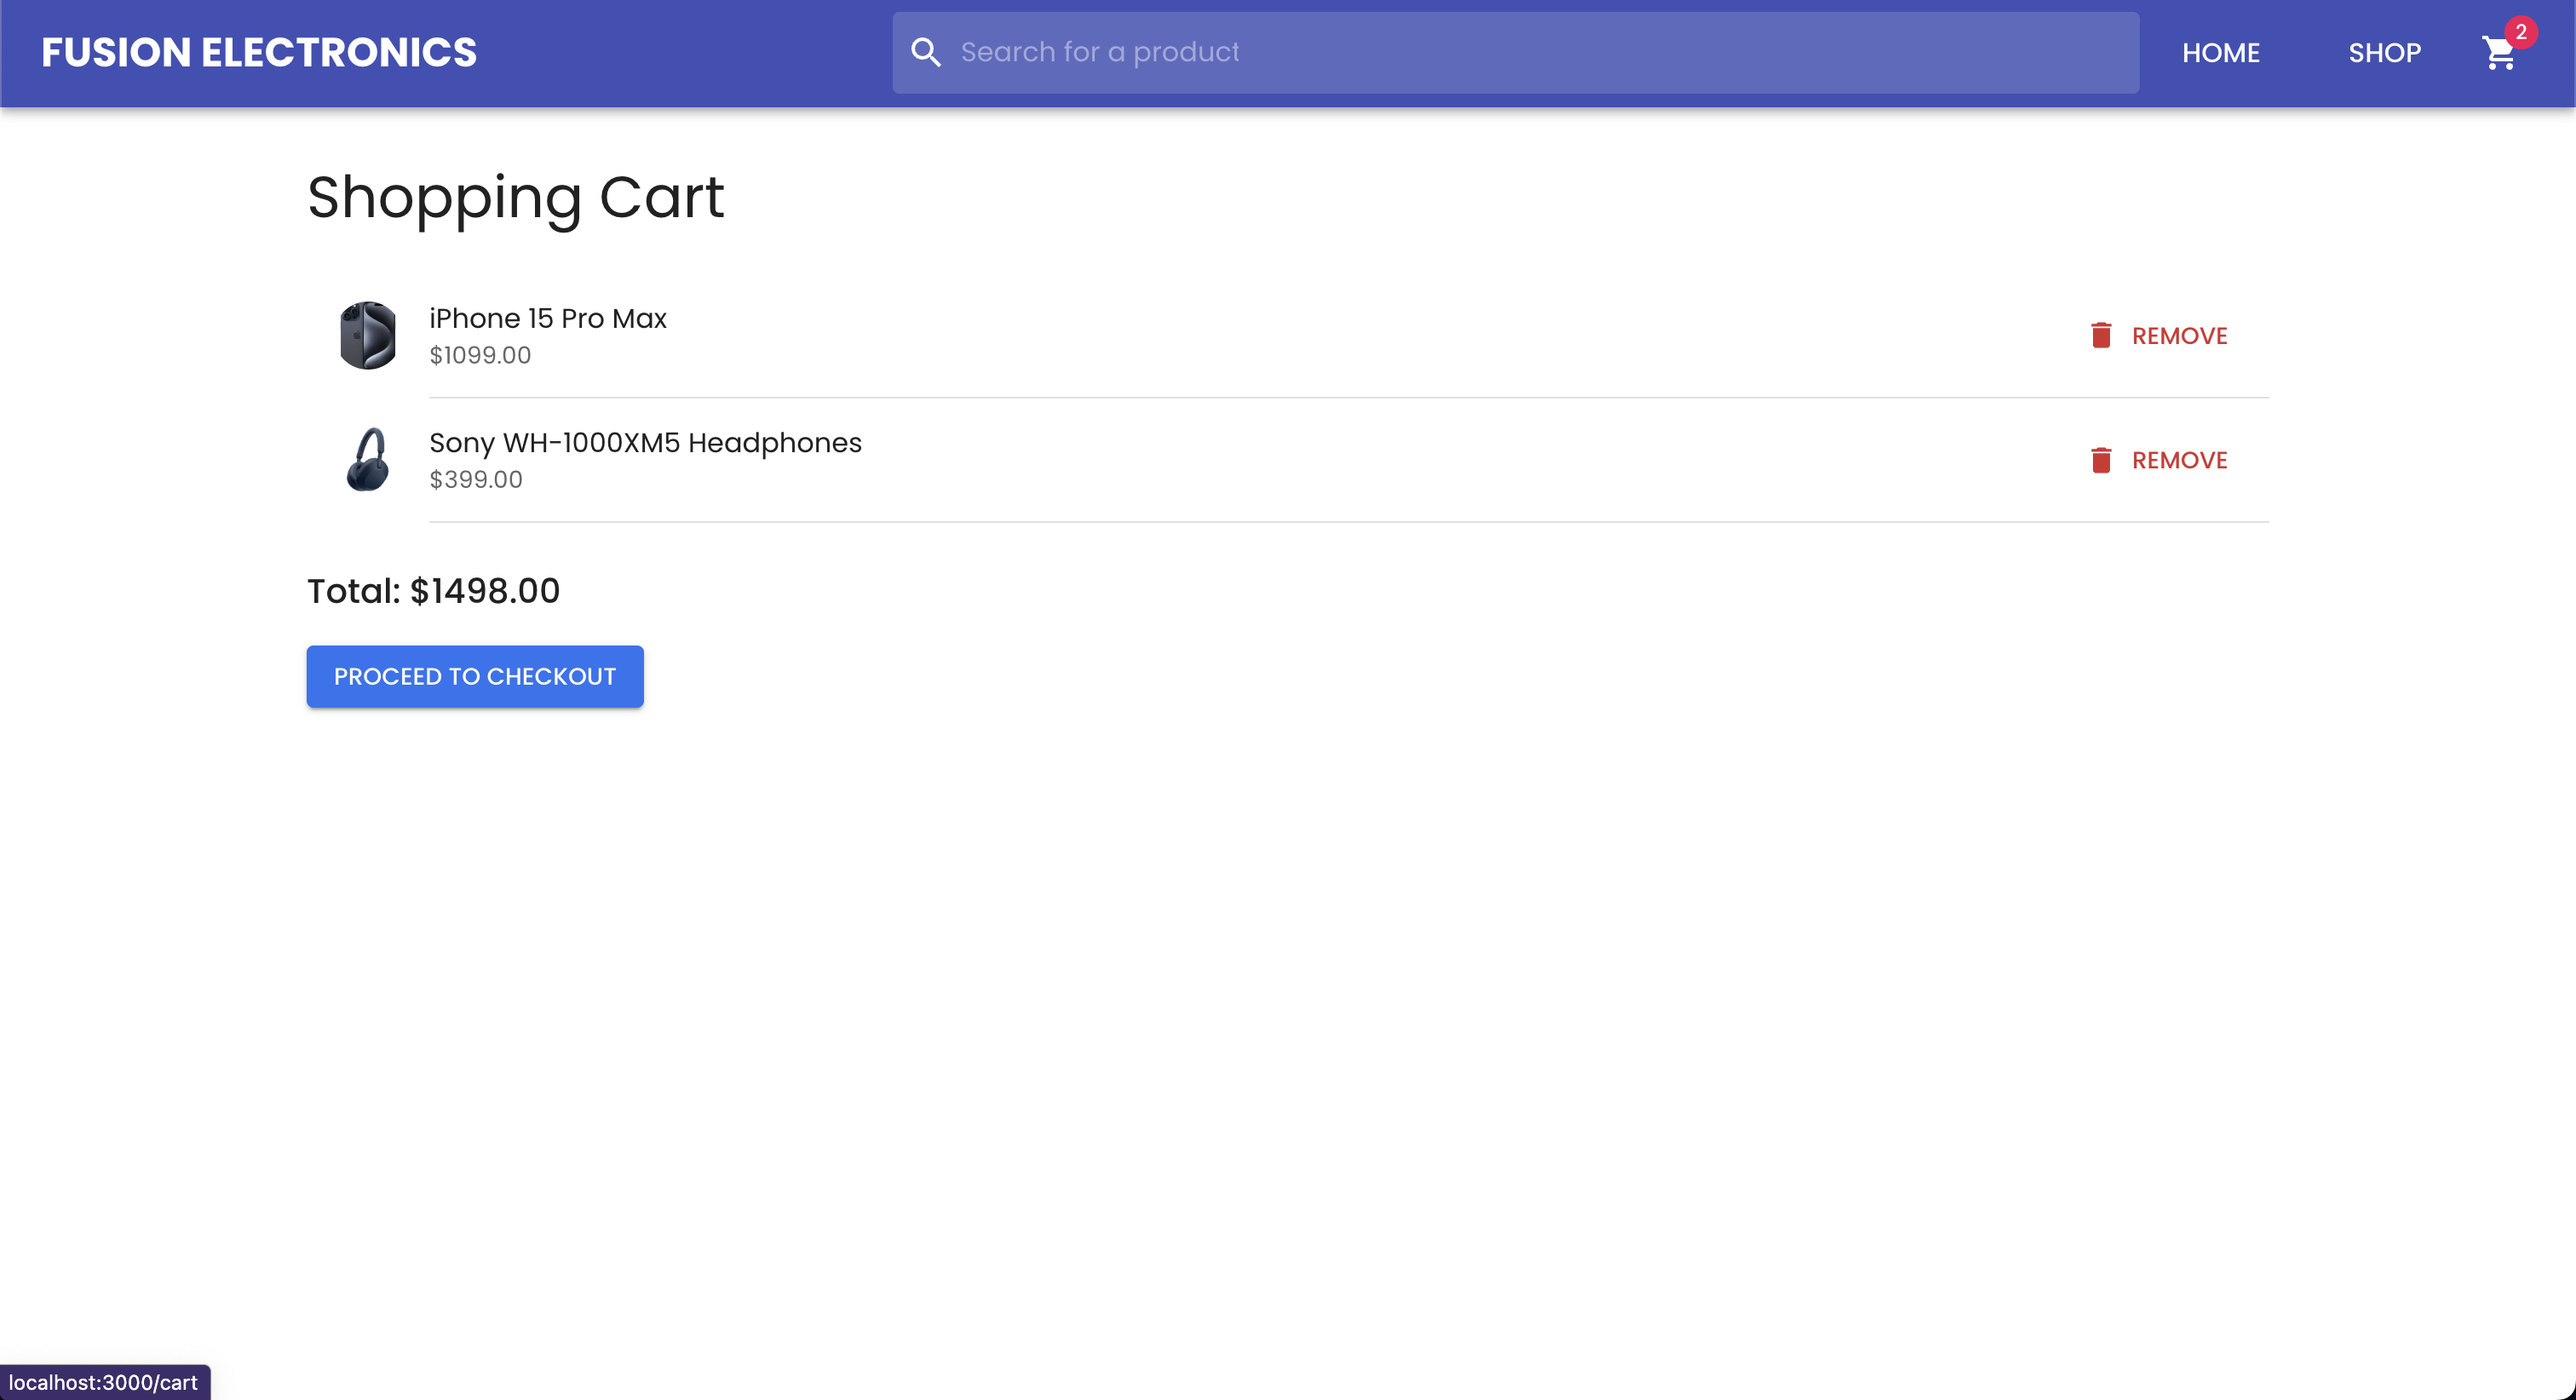
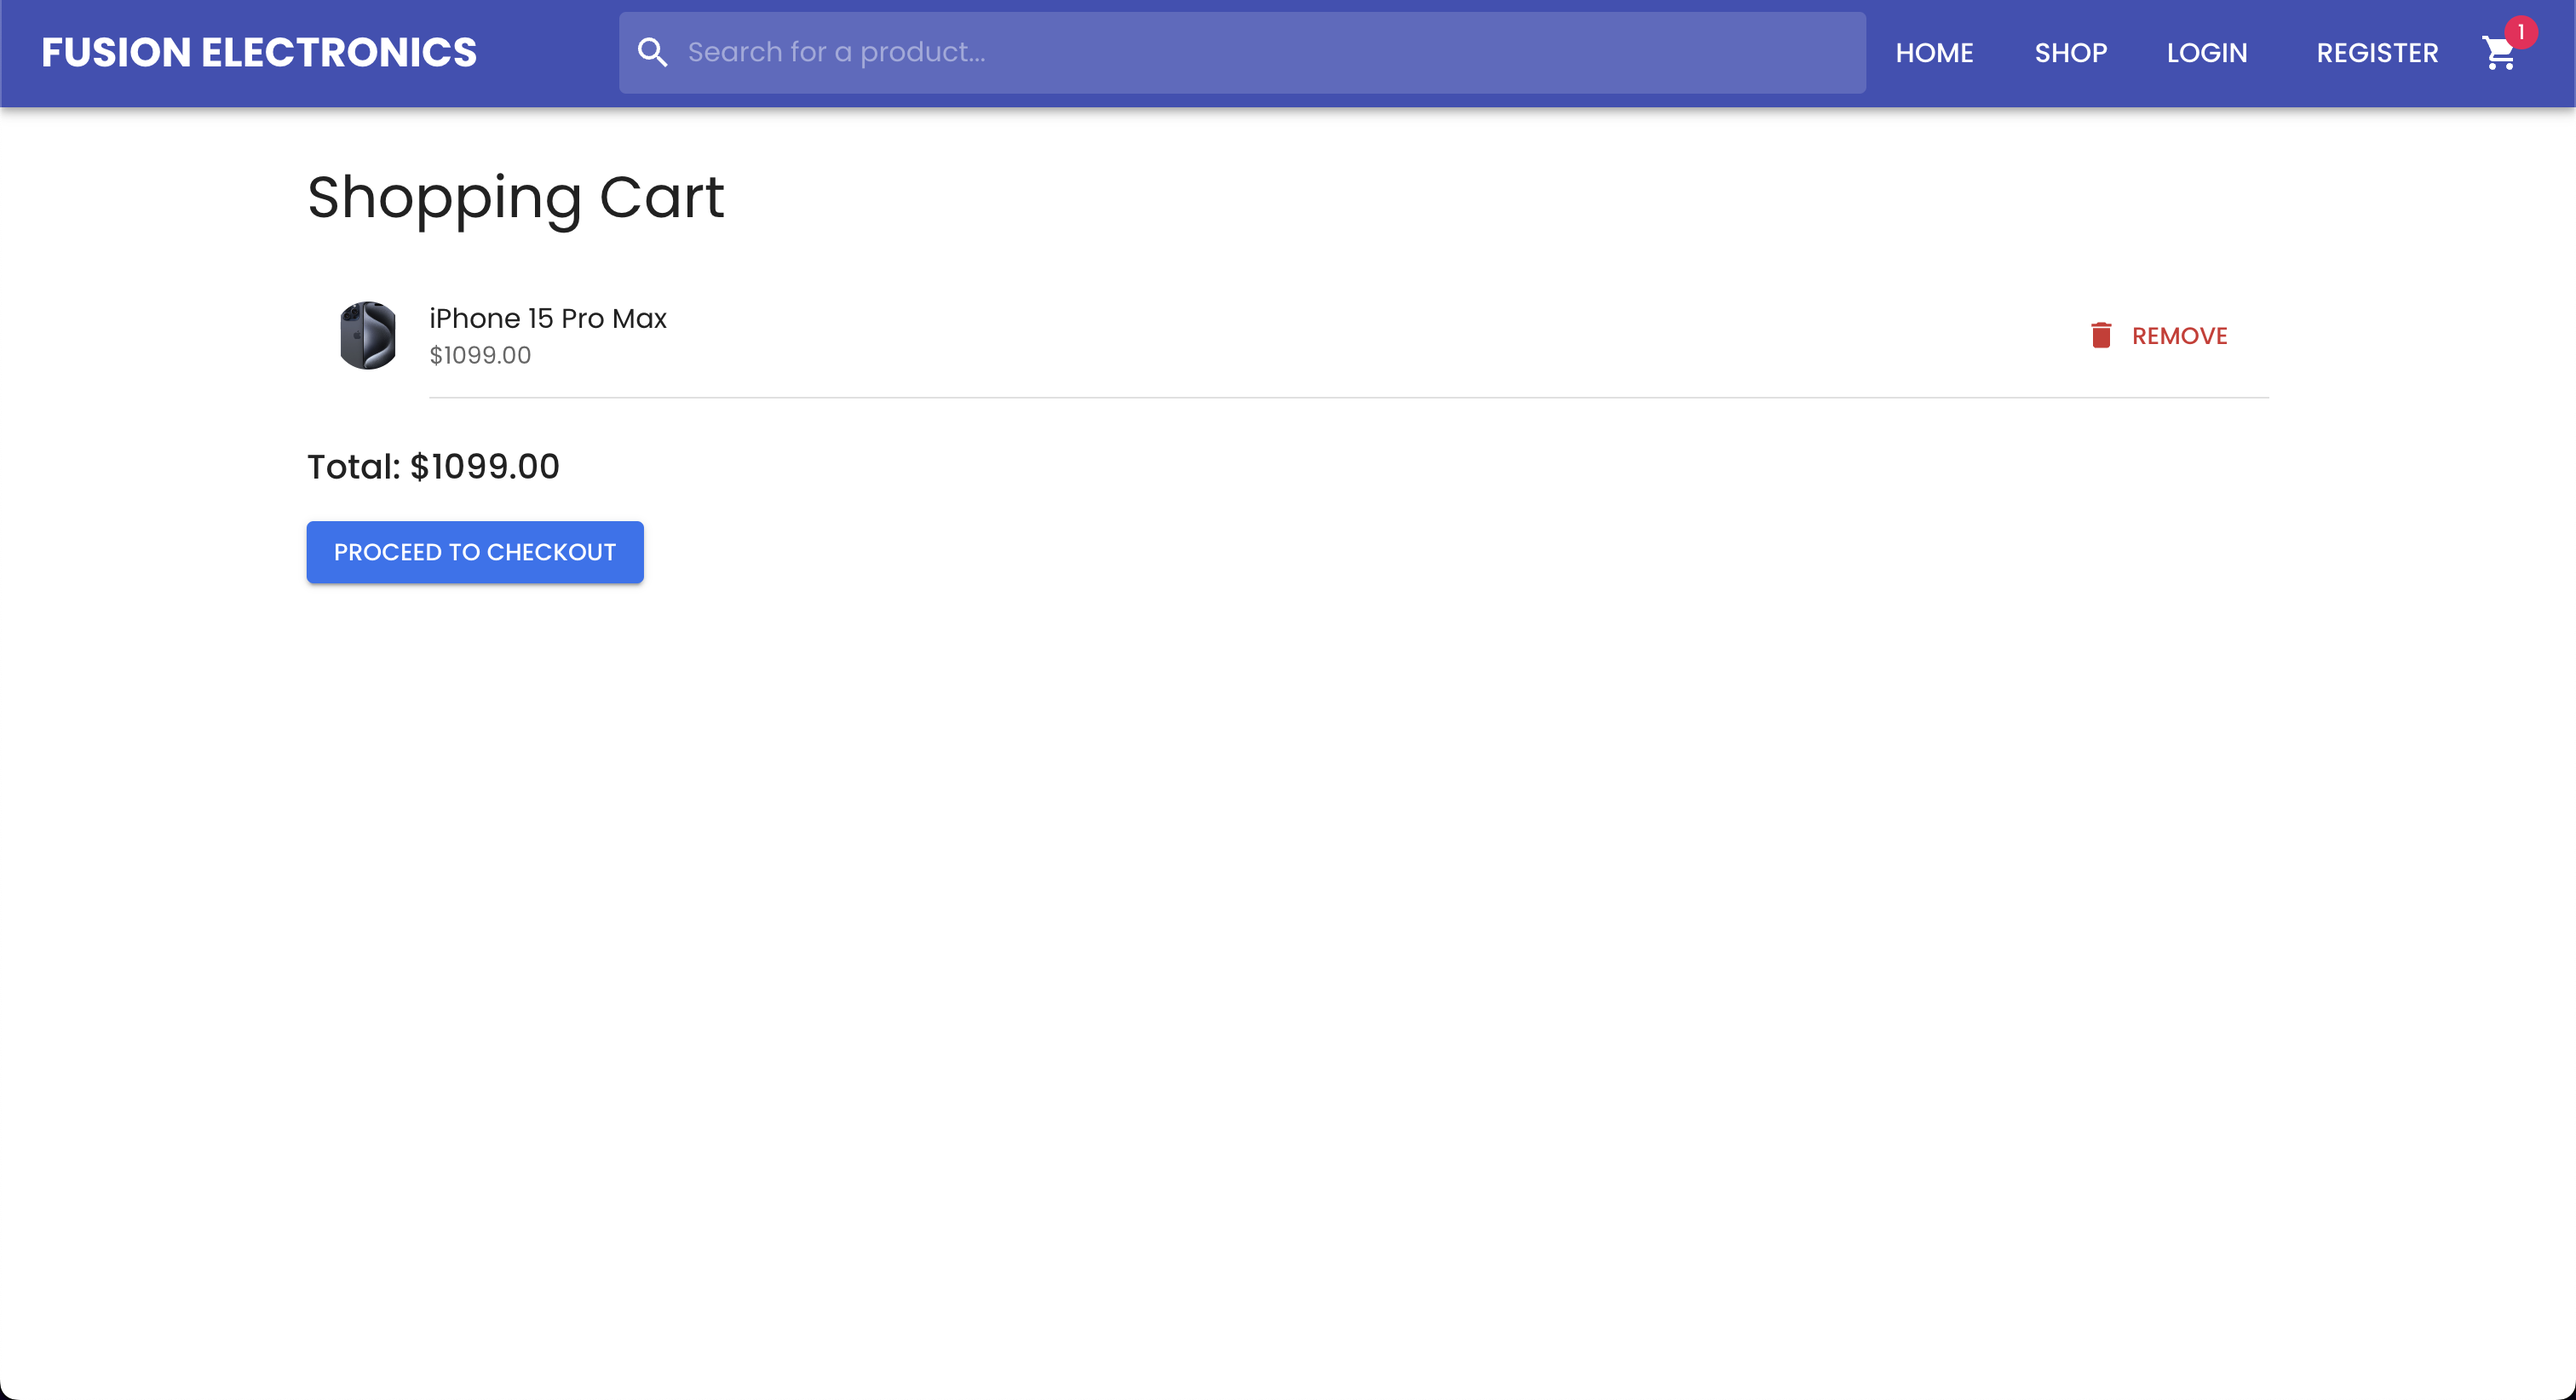
Update: Added nodemon and SwaggerJS

diff --git a/README.md b/README.md
@@ -52,6 +52,12 @@ Please note that the backend server may take a few seconds to wake up if it has 
     <img src="docs/products-ui.png" alt="Fusion Electronics Products List" style="border-radius: 10px" width="100%"/>
 </p>
 
+### Search Results
+
+<p align="center">
+    <img src="docs/search-results-ui.png" alt="Fusion Electronics Search Results" style="border-radius: 10px" width="100%"/>
+</p>
+
 ### Product Details Page
 
 <p align="center">
@@ -68,6 +74,30 @@ Please note that the backend server may take a few seconds to wake up if it has 
 
 <p align="center">
     <img src="docs/checkout-ui.png" alt="Fusion Electronics Checkout Page" style="border-radius: 10px" width="100%"/>
+</p>
+
+### Login Page
+
+<p align="center">
+    <img src="docs/login-ui.png" alt="Fusion Electronics Login Page" style="border-radius: 10px" width="100%"/>
+</p>
+
+### Register Page
+
+<p align="center">
+    <img src="docs/register-ui.png" alt="Fusion Electronics Register Page" style="border-radius: 10px" width="100%"/>
+</p>
+
+### Forgot Password Page
+
+<p align="center">
+    <img src="docs/forgot-password-ui.png" alt="Fusion Electronics Forgot Password Page" style="border-radius: 10px" width="100%"/>
+</p>
+
+### Reset Password Page
+
+<p align="center">
+    <img src="docs/reset-password-ui.png" alt="Fusion Electronics Reset Password Page" style="border-radius: 10px" width="100%"/>
 </p>
 
 ### Order Confirmation
@@ -116,6 +146,7 @@ Please note that the backend server may take a few seconds to wake up if it has 
     - Cors for cross-origin resource sharing
     - Swagger for API documentation
     - Nodemon for server hot-reloading
+    - **Middleware**: JWT for securing API endpoints
 
 - **Development Tools:**
     - Jetbrains WebStorm (IDE)
@@ -213,6 +244,7 @@ Before running this project, ensure you have the following installed:
    - Create a `.env` file in the `backend/` directory and add the following environment variable (replace the URI with your MongoDB connection string):
      ```
      MONGO_URI=mongodb://localhost:27017/Ecommerce-Products
+     JWT_SECRET=your_secret_key
      ```
      
      For your information, I am using MongoDB Atlas for this project. You can create a free account and get your connection string from there if you want to deploy the application to the cloud.
